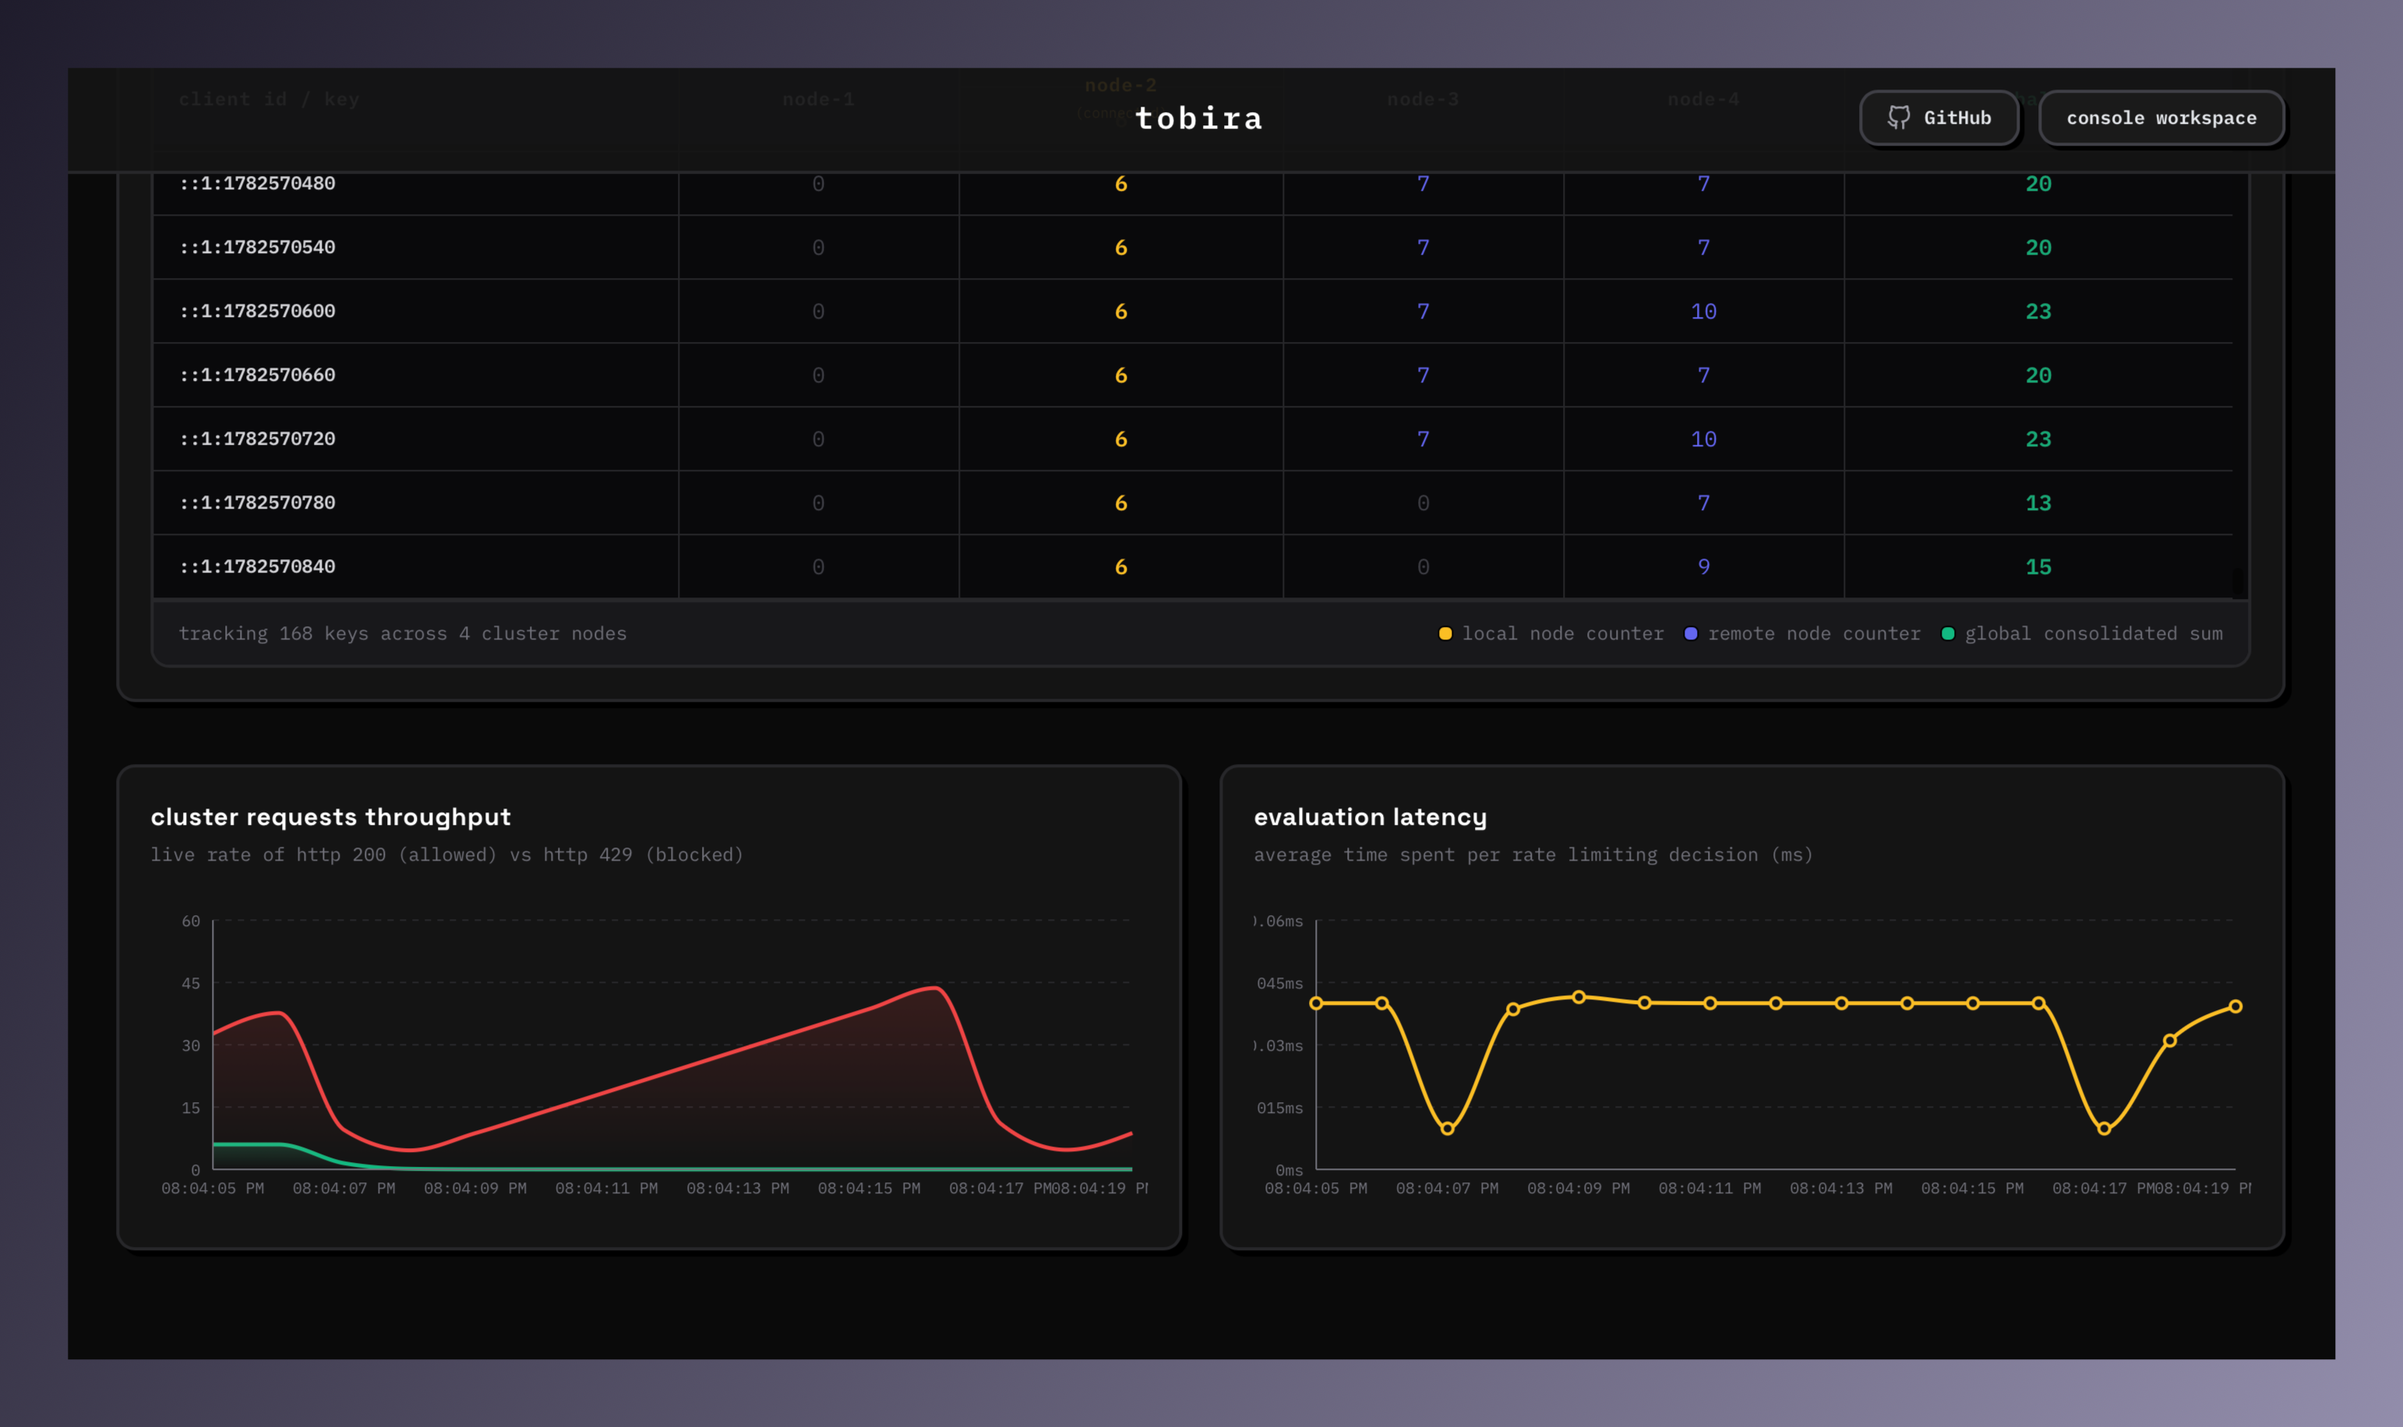
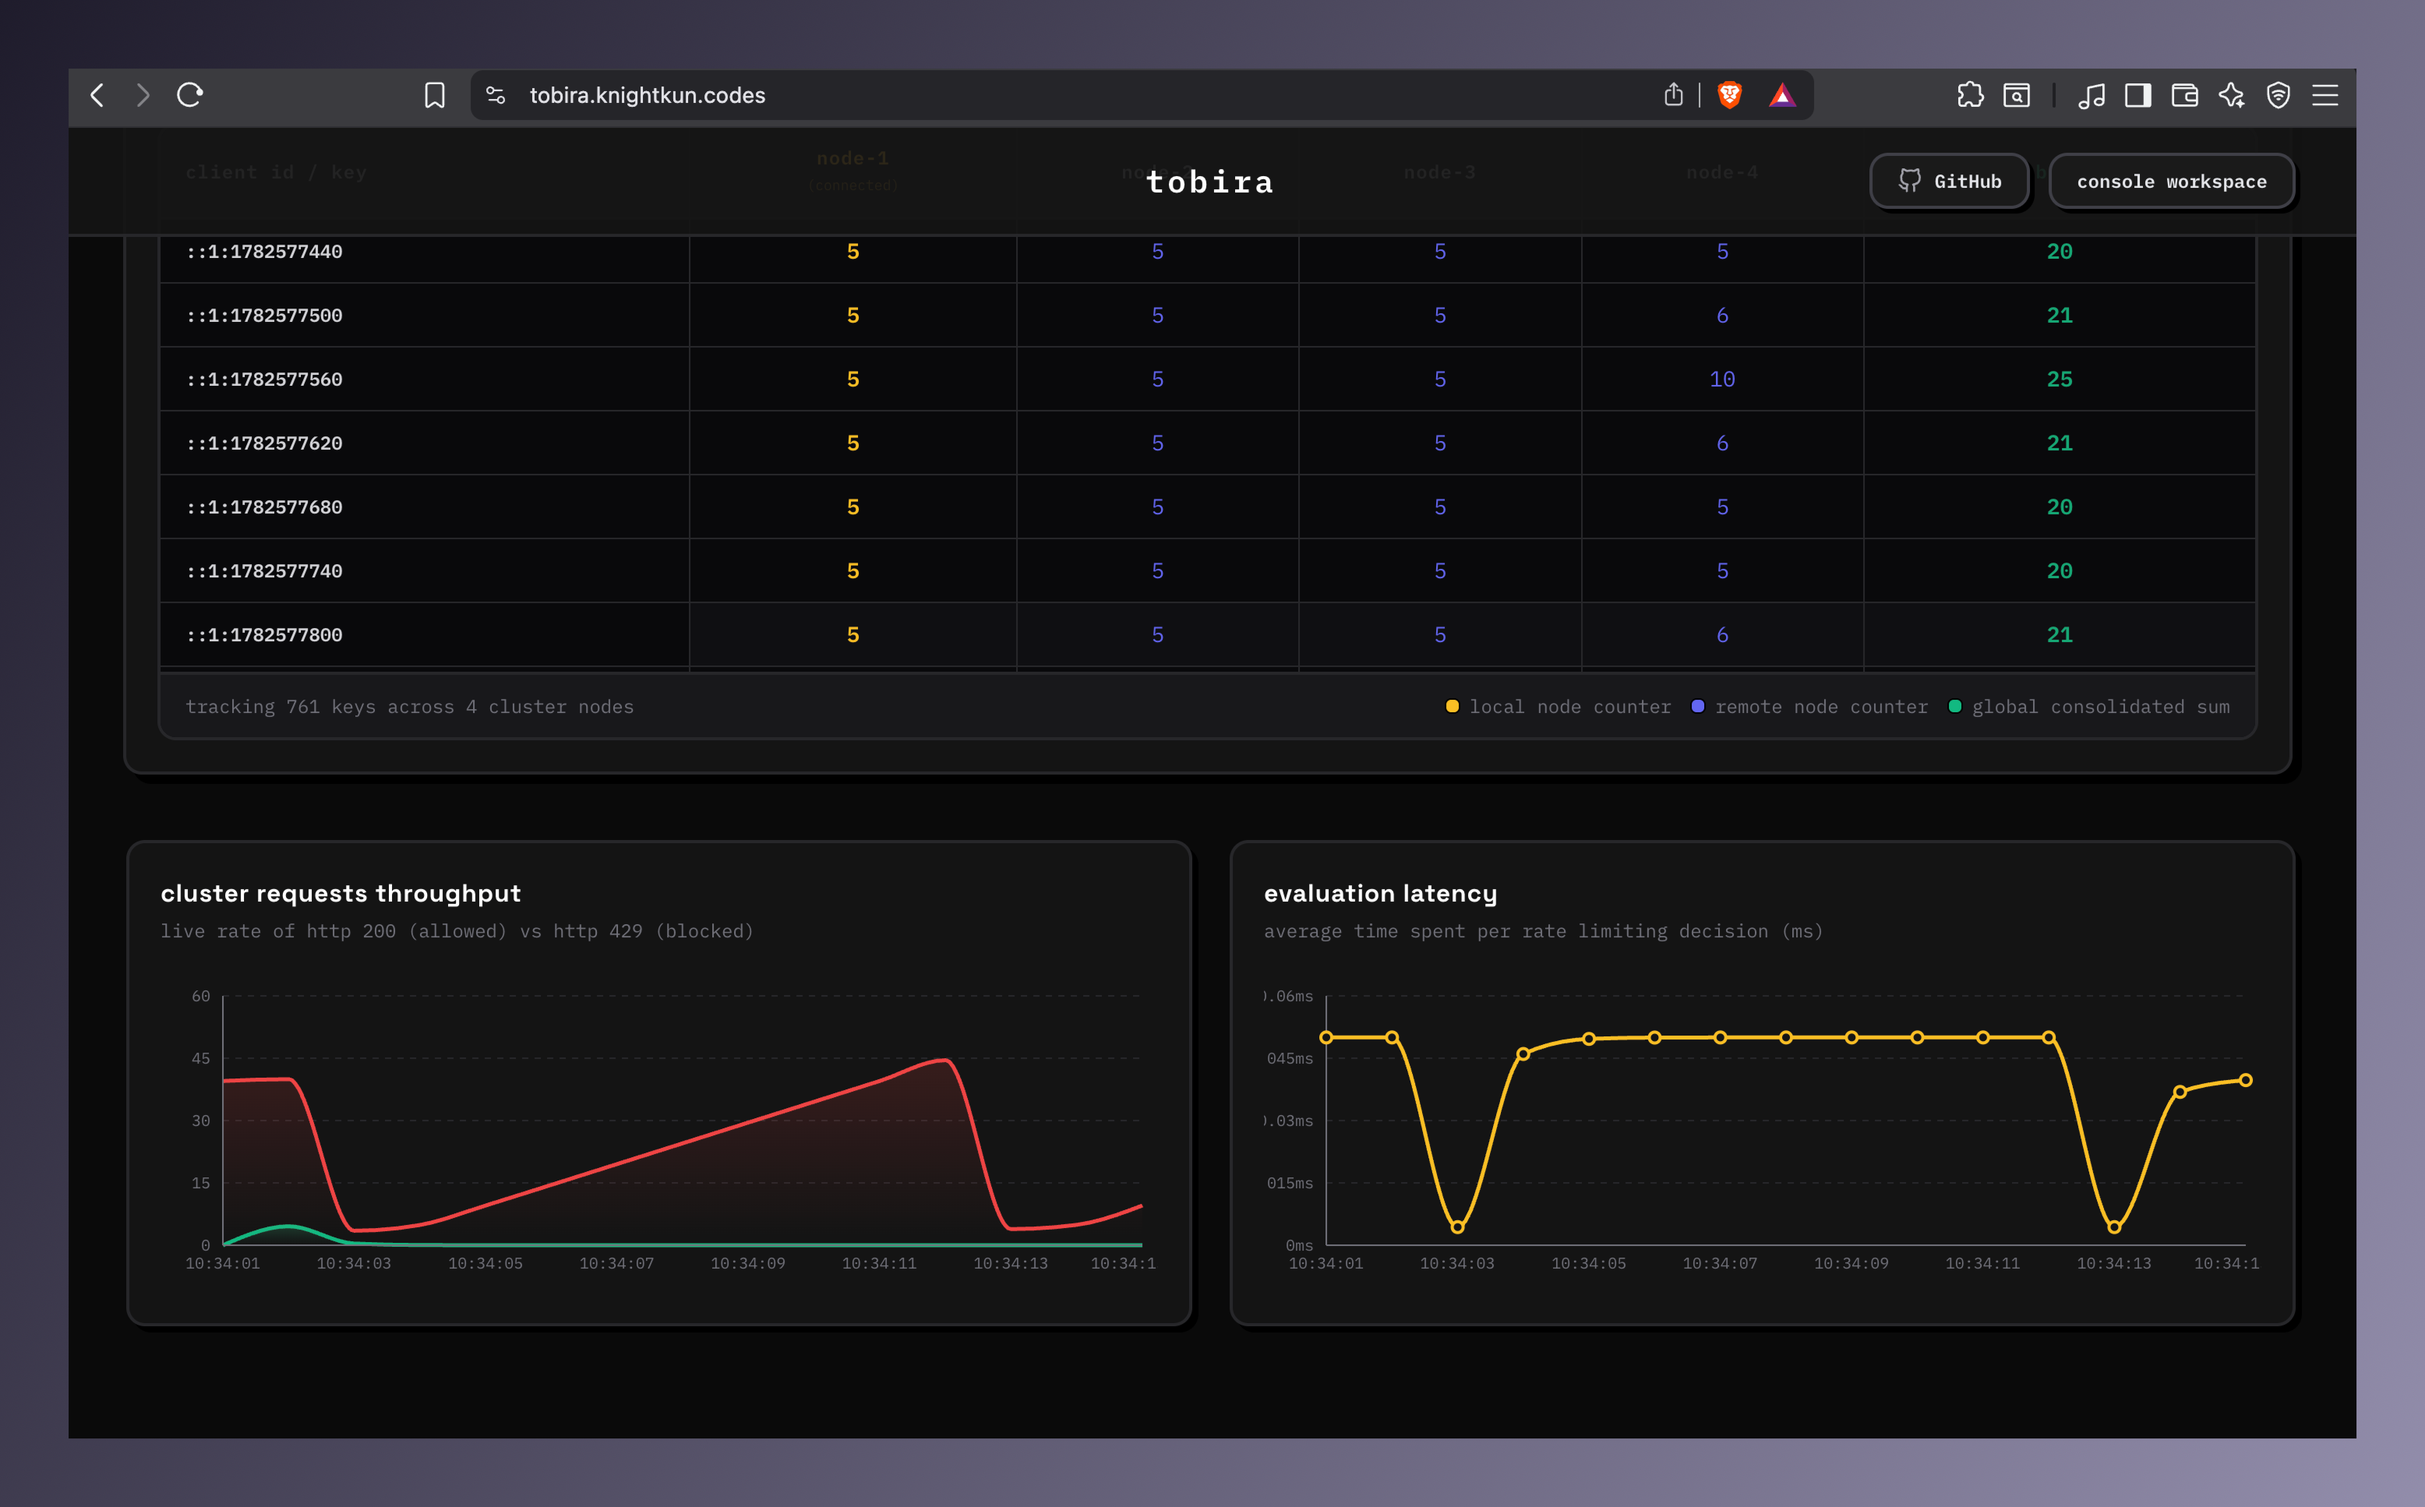
readme and algorithms changes

diff --git a/internal/api/handlers.go b/internal/api/handlers.go
@@ -22,6 +22,7 @@ func (s *Server) registerRoutes(mux *http.ServeMux) {
 	mux.HandleFunc("POST /api/admin/gossip", s.handleAdminGossip)
 	mux.HandleFunc("POST /api/admin/heartbeat", s.handleAdminHeartbeat)
 	mux.HandleFunc("POST /api/admin/shutdown", s.handleAdminShutdown)
+	mux.HandleFunc("POST /api/admin/algorithm", s.handleAdminAlgorithm)
 }
 
 type HealthResponse struct {
@@ -29,6 +30,7 @@ type HealthResponse struct {
 	Node 		string 		`json:"node"`
 	TimeStamp	 string 	`json:"timestamp"`
 	Uptime 		string 		`json:"uptime"`
+	Algorithm string `json:"algorithm"`
 }
 
 var startTime = time.Now()
@@ -41,6 +43,7 @@ func (s *Server) handleHealth(w http.ResponseWriter, r *http.Request) {
 		Node: s.nodeID, 
 		TimeStamp: time.Now().Format(time.RFC3339),
 		Uptime: time.Since(startTime).Round(time.Second).String(),
+		Algorithm: s.limiter.Algorithm(),
 	}
 
 	w.Header().Set("Content-Type", "application/json")
@@ -164,4 +167,28 @@ func (s *Server) handleAdminShutdown(w http.ResponseWriter, r *http.Request) {
 		slog.Warn("admin: executing shutdown")
 		s.Shutdown()
 	}()
+}
+
+func (s *Server) handleAdminAlgorithm(w http.ResponseWriter, r *http.Request) {
+	algorithm := r.URL.Query().Get("algorithm")
+	if algorithm == "" {
+		http.Error(w, "missing 'algorithm' query parameter", http.StatusBadRequest)
+		return
+	}
+
+	if err := s.limiter.Swap(algorithm); err != nil {
+		slog.Error("admin: failed to swap algorithm", "algorithm", algorithm, "err", err)
+		http.Error(w, err.Error(), http.StatusBadRequest)
+		return
+	}
+
+	slog.Info("admin: algorithm swapped", "algorithm", algorithm, "node", s.nodeID)
+
+	s.wsHub.Broadcast("algorithm_changed", map[string]interface{}{
+		"algorithm": algorithm,
+		"node":      s.nodeID,
+	})
+
+	w.WriteHeader(http.StatusOK)
+	w.Write([]byte(fmt.Sprintf("algorithm set to %s", algorithm)))
 }

diff --git a/internal/limiter/swappable.go b/internal/limiter/swappable.go
@@ -1,0 +1,51 @@
+package limiter
+
+import (
+	"fmt"
+	"sync"
+)
+
+type SwappableLimiter struct {
+	mu        sync.RWMutex
+	inner     Limiter
+	algorithm string
+	cfg       Config
+}
+
+func NewSwappable(cfg Config) (*SwappableLimiter, error) {
+	inner, err := New(cfg)
+	if err != nil {
+		return nil, err
+	}
+	return &SwappableLimiter{
+		inner:     inner,
+		algorithm: cfg.Algorithm,
+		cfg:       cfg,
+	}, nil
+}
+
+func (s *SwappableLimiter) Allow(key string) bool {
+	s.mu.RLock()
+	defer s.mu.RUnlock()
+	return s.inner.Allow(key)
+}
+
+func (s *SwappableLimiter) Swap(algorithm string) error {
+	newCfg := s.cfg
+	newCfg.Algorithm = algorithm
+	newInner, err := New(newCfg)
+	if err != nil {
+		return fmt.Errorf("swap failed: %w", err)
+	}
+	s.mu.Lock()
+	defer s.mu.Unlock()
+	s.inner = newInner
+	s.algorithm = algorithm
+	return nil
+}
+
+func (s *SwappableLimiter) Algorithm() string {
+	s.mu.RLock()
+	defer s.mu.RUnlock()
+	return s.algorithm
+}

diff --git a/internal/gossip/state_test.go b/internal/gossip/state_test.go
@@ -38,3 +38,29 @@ func TestStateMergeAndConflictResolution(t *testing.T) {
 		t.Errorf("Expected global count to remain 18 after merging stale state, got %d", globalUser1PostStale)
 	}
 }
+
+func TestStateCleanup(t *testing.T) {
+	state := gossip.NewState()
+
+	state.UpdateLocal("user-1:allowed", "node-1", 10)
+	state.UpdateLocal("user-2:allowed", "node-2", 5)
+
+	state.UpdateLocal("user-3:1000000000", "node-1", 4)
+	state.UpdateLocal("user-4:slice:1000000000", "node-2", 3)
+
+	state.UpdateLocal("user-3:999990000", "node-1", 2)
+	state.UpdateLocal("user-4:slice:999990000", "node-2", 1)
+
+	state.UpdateLocal("user-old:1600000000", "node-1", 20)
+
+	state.Cleanup(120) 
+
+	if state.GetGlobalCount("user-old:1600000000") != 0 {
+		t.Error("expected expired timestamp-suffixed key to be pruned")
+	}
+
+	if state.GetGlobalCount("user-1:allowed") != 10 {
+		t.Error("expected non-timestamped key user-1:allowed to be preserved")
+	}
+}
+

diff --git a/internal/gossip/state.go b/internal/gossip/state.go
@@ -1,17 +1,39 @@
 package gossip 
 
 import (
+	"strconv"
+	"strings"
 	"sync"
+	"time"
 )
 
 type State struct {
-	mu sync.RWMutex
+	mu   sync.RWMutex
 	Data map[string]map[string]int64 `json:"data"`
 }
 
-func NewState() *State{
-	return &State {
+func NewState() *State {
+	return &State{
 		Data: make(map[string]map[string]int64),
+	}
+}
+
+func (s *State) Cleanup(maxAgeSeconds int64) {
+	s.mu.Lock()
+	defer s.mu.Unlock()
+	now := time.Now().Unix()
+	for key := range s.Data {
+		idx := strings.LastIndex(key, ":")
+		if idx == -1 {
+			continue
+		}
+		suffix := key[idx+1:]
+		timestamp, err := strconv.ParseInt(suffix, 10, 64)
+		if err == nil {
+			if now-timestamp > maxAgeSeconds {
+				delete(s.Data, key)
+			}
+		}
 	}
 }
 

diff --git a/internal/api/server.go b/internal/api/server.go
@@ -16,14 +16,14 @@ type Server struct {
 	nodeID     string
 	port       string
 	httpServer *http.Server
-	limiter limiter.Limiter
-	metrics  *metrics.Metrics
+	limiter    *limiter.SwappableLimiter
+	metrics    *metrics.Metrics
 	gossipNode *gossip.Node
 	wsHub      *Hub
 }
 
-func NewServer(nodeID, port string, l limiter.Limiter, m *metrics.Metrics, gn *gossip.Node) *Server {
-	s:= &Server{ nodeID: nodeID, port: port, limiter: l, metrics: m, gossipNode: gn}
+func NewServer(nodeID, port string, l *limiter.SwappableLimiter, m *metrics.Metrics, gn *gossip.Node) *Server {
+	s := &Server{nodeID: nodeID, port: port, limiter: l, metrics: m, gossipNode: gn}
 	s.wsHub = NewHub(nodeID, gn, m)
 
 	mux:= http.NewServeMux()

diff --git a/internal/api/handlers_test.go b/internal/api/handlers_test.go
@@ -24,7 +24,7 @@ func TestAdminHandlers(t *testing.T) {
 		Store:         gossipNode.State(),
 		NodeID:        "test-node",
 	}
-	lim, err := limiter.New(cfg)
+	lim, err := limiter.NewSwappable(cfg)
 	if err != nil {
 		t.Fatalf("failed to create limiter: %v", err)
 	}

diff --git a/internal/api/websocket_test.go b/internal/api/websocket_test.go
@@ -32,7 +32,7 @@ func TestWebSocketHub(t *testing.T) {
 		Store:         gossipNode.State(),
 		NodeID:        "test-node",
 	}
-	lim, err := limiter.New(cfg)
+	lim, err := limiter.NewSwappable(cfg)
 	if err != nil {
 		t.Fatalf("failed to create limiter: %v", err)
 	}

diff --git a/internal/gossip/node.go b/internal/gossip/node.go
@@ -266,6 +266,7 @@ func (n *Node) startGossipLoop(ctx context.Context) {
 			}
 
 			targetPeer := peers[r.Intn(len(peers))]
+			n.state.Cleanup(120)
 			stateSnapshot := n.state.Copy()
 			payload, err := json.Marshal(stateSnapshot)
 			if err != nil {

diff --git a/cmd/server/main.go b/cmd/server/main.go
@@ -66,7 +66,7 @@ func main() {
 
 	gossipNode.Start(ctx)
 
-	lim, err := limiter.New(limiter.Config{
+	lim, err := limiter.NewSwappable(limiter.Config{
 		Algorithm:     *algorithm,
 		Rate:          *rate,
 		WindowSeconds: *window,

diff --git a/README.md b/README.md
@@ -19,7 +19,7 @@ tobira is a high-concurrency, redis-less distributed rate limiter cluster. it sy
 
 - **redis-less distributed sync**: no central database or database bottleneck. nodes communicate directly over udp.
 - **crdt-based state synchronization**: uses a state-based conflict-free replicated data type (crdt) grow-only counter map per rate-limiting key. states merge deterministically across nodes.
-- **pluggable rate limiter algorithms**: 
+- **pluggable rate limiter algorithms with live switching**: choose and hot-swap the active algorithm at runtime from the dashboard. no restart needed.
   - **fixed window**: simple, memory-efficient interval limiters.
   - **token bucket**: supports bursty traffic with continuous token refills.
   - **leaky bucket**: smooths out traffic peaks to maintain constant request output.
@@ -136,6 +136,29 @@ go run cmd/load/main.go -targets=http://localhost:9080/api/resource,http://local
 cd web
 npm install
 npm run dev
+```
+
+---
+
+## admin api
+
+each node exposes a set of runtime admin endpoints for simulation and control:
+
+| endpoint | method | description |
+|---|---|---|
+| `/health` | `GET` | node status, uptime, and **active algorithm** |
+| `/metrics` | `GET` | allowed/denied counts and latency snapshot |
+| `/api/nodes` | `GET` | peer topology as seen by this node |
+| `/api/admin/algorithm?algorithm=<name>` | `POST` | **hot-swap the rate limiting algorithm** without restarting |
+| `/api/admin/gossip?muted=<true\|false>` | `POST` | mute or restore udp gossip state sync |
+| `/api/admin/heartbeat?muted=<true\|false>` | `POST` | mute or restore udp heartbeat pings |
+| `/api/admin/shutdown` | `POST` | gracefully shut down a specific node |
+
+**valid algorithm values:** `fixed_window`, `sliding_window`, `token_bucket`, `leaky_bucket`
+
+example — switch node-1 to token bucket:
+```bash
+curl -X POST "http://localhost:9080/api/admin/algorithm?algorithm=token_bucket"
 ```
 
 ---
